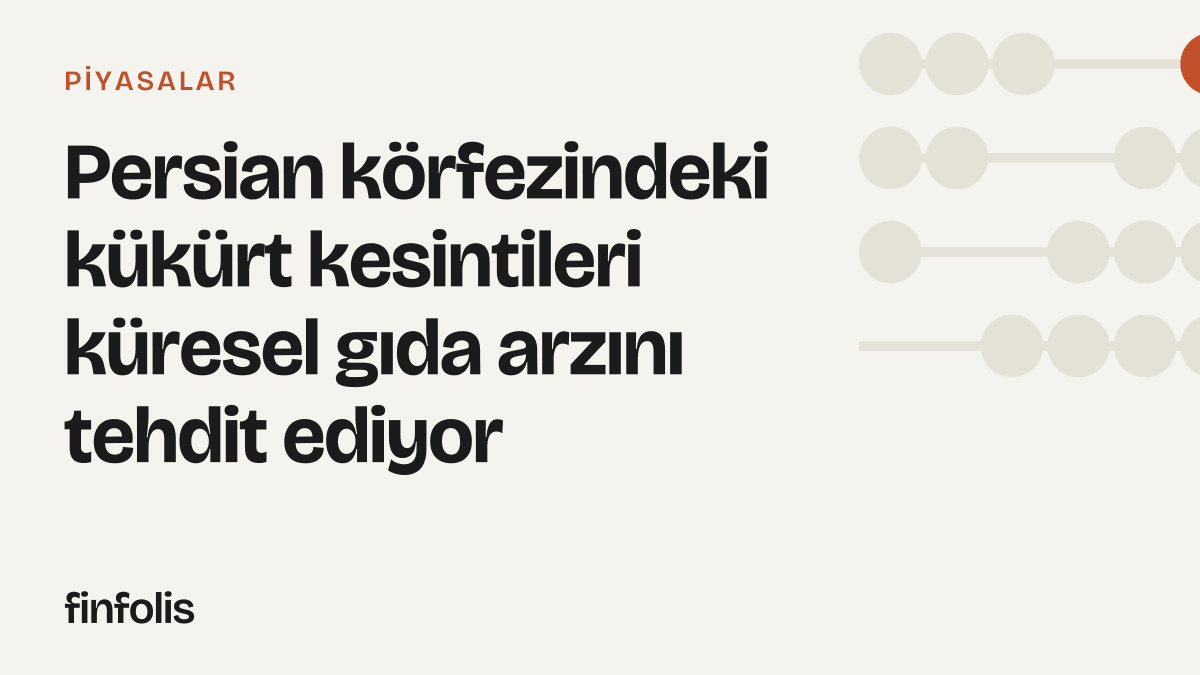
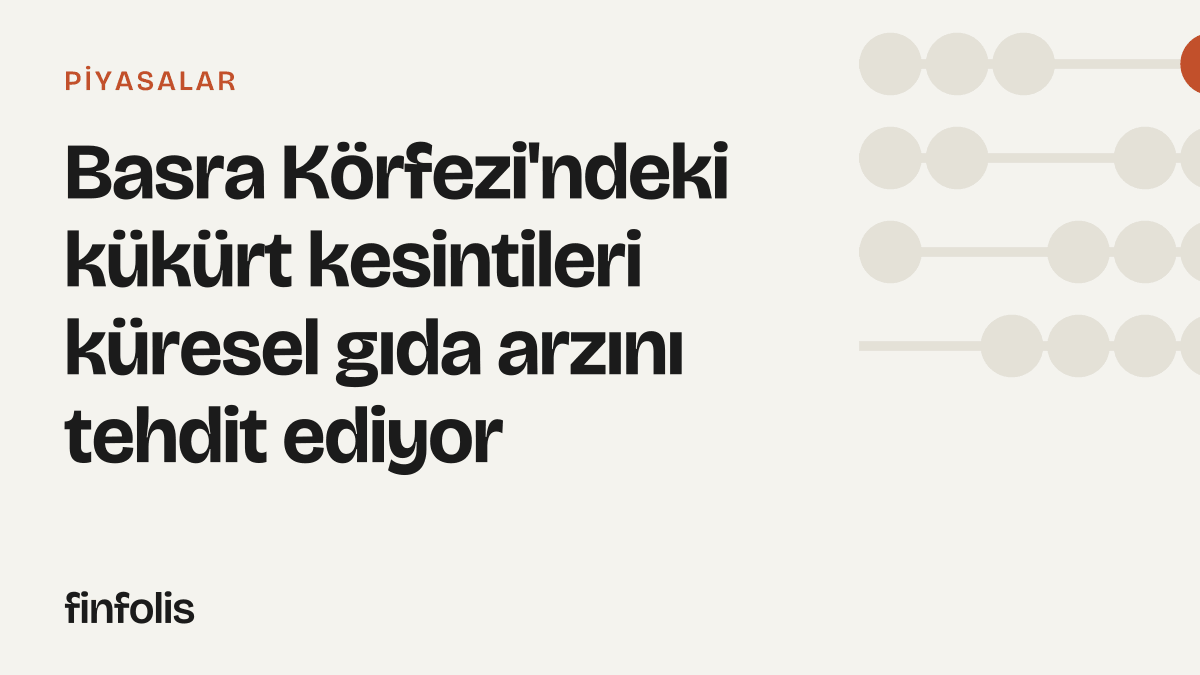
Kükürt haberi: "Persian Körfezi" çevirisi "Basra Körfezi" olarak düzeltildi, kapak yeniden çizildi

Changed region(s): [[0.0617, 0.1867, 0.6475, 0.3111]]

diff --git a/src/content/haberler/persian-korfezindeki-kukurt-kesintileri-kuresel-gida-arzini-tehdit-ediyor/index.md b/src/content/haberler/persian-korfezindeki-kukurt-kesintileri-kuresel-gida-arzini-tehdit-ediyor/index.md
@@ -1,6 +1,6 @@
 ---
-title: "Persian körfezindeki kükürt kesintileri küresel gıda arzını tehdit ediyor"
-description: "Persian Körfezi'ndeki kükürt ihracatındaki kesintiler fiyatların hızla yükselmesine yol açarak dünya genelinde fosfat gübre üretimini tehlikeye atıyor. Yazar Kurt Cobb'a göre bu durum tarım maliyetleri üzerinde baskı oluşturuyor."
+title: "Basra Körfezi'ndeki kükürt kesintileri küresel gıda arzını tehdit ediyor"
+description: "Basra Körfezi'ndeki kükürt ihracatındaki kesintiler fiyatların hızla yükselmesine yol açarak dünya genelinde fosfat gübre üretimini tehlikeye atıyor. Yazar Kurt Cobb'a göre bu durum tarım maliyetleri üzerinde baskı oluşturuyor."
 date: 2026-10-19T18:30:00.000Z
 category: "piyasalar"
 tur: "haber"
